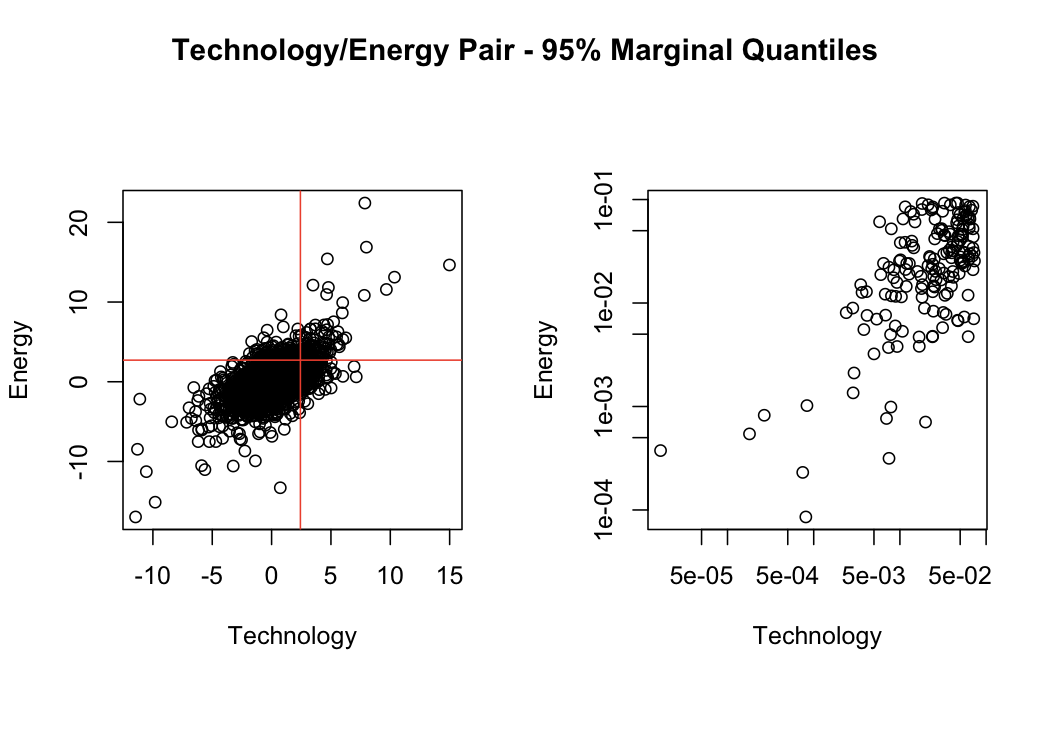
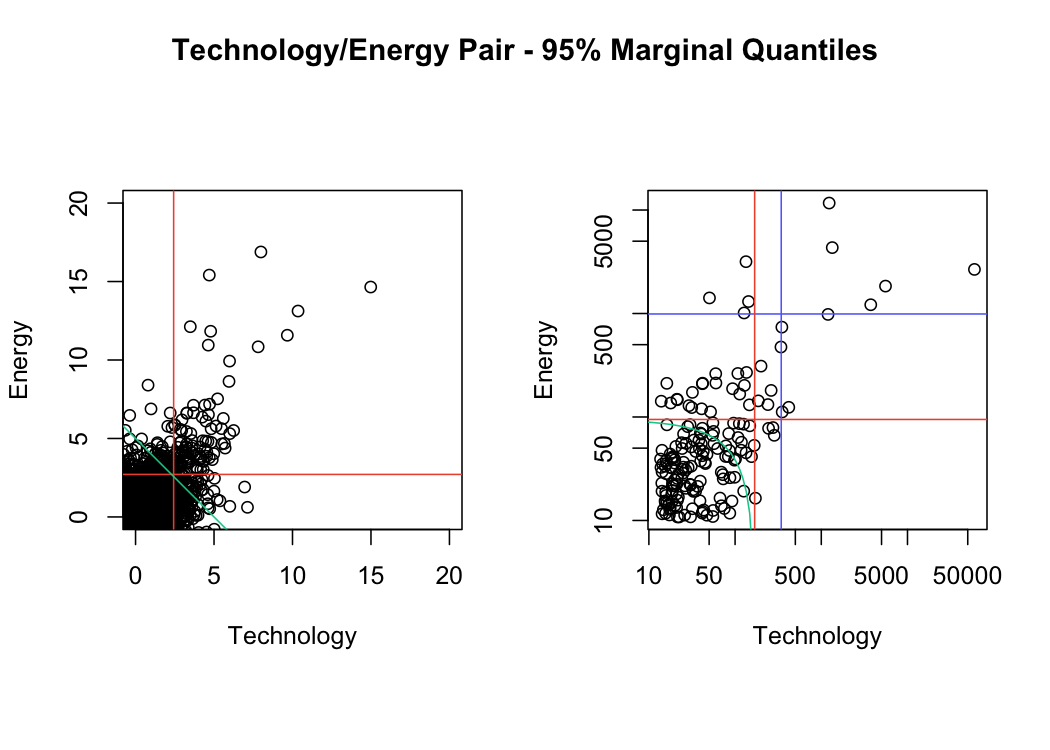
gpd update

diff --git a/R_Notebooks/GPD_univariate.md b/R_Notebooks/GPD_univariate.md
@@ -78,6 +78,15 @@ corresponding 95% marginal quantiles. We can also do the same plot after
 transformation to the Frechet scale and using the logarithmic scale for
 the axis.
 
+  - Left Figure : Plot of positive losses only.
+  - Right Figure : Transformation to Frechet scale and using logarithmic
+    scale using GPD with threshold 2. Only the exceedances are plotted.
+  - Red Line : 95% marginal quantiles of losses (Original and
+    Transformed to Frechet scale).
+  - Blue Line : 95% marginal quantiles of the data plotted in the right
+    figure.
+  - Green Line : x+y=5 (Original and Transformed to Frechet scale).
+
 <p align="center">
 
 <img src="GPD_univariate_files/figure-gfm/unnamed-chunk-7-1.png" style="display: block; margin: auto;" />
@@ -107,6 +116,12 @@ sectors.
 
 </p>
 
+<p align="center">
+
+<img src="GPD_univariate_files/figure-gfm/unnamed-chunk-10-1.png" style="display: block; margin: auto;" />
+
+</p>
+
 Finally, we fit the logistic bivariate extreme value distribution for
 the exceedances over the threshold u=2.
 
@@ -131,13 +146,13 @@ the exceedances over the threshold u=2.
 
 <p align="center">
 
-<img src="GPD_univariate_files/figure-gfm/unnamed-chunk-11-1.png" style="display: block; margin: auto;" />
+<img src="GPD_univariate_files/figure-gfm/unnamed-chunk-12-1.png" style="display: block; margin: auto;" />
 
 </p>
 
 <p align="center">
 
-<img src="GPD_univariate_files/figure-gfm/unnamed-chunk-12-1.png" style="display: block; margin: auto;" />
+<img src="GPD_univariate_files/figure-gfm/unnamed-chunk-13-1.png" style="display: block; margin: auto;" />
 
 </p>
 
@@ -147,6 +162,6 @@ Extreme Value Distributions to Threshold Exceedances.
 
 <p align="center">
 
-<img src="GPD_univariate_files/figure-gfm/unnamed-chunk-13-1.png" style="display: block; margin: auto;" />
+<img src="GPD_univariate_files/figure-gfm/unnamed-chunk-14-1.png" style="display: block; margin: auto;" />
 
 </p>
